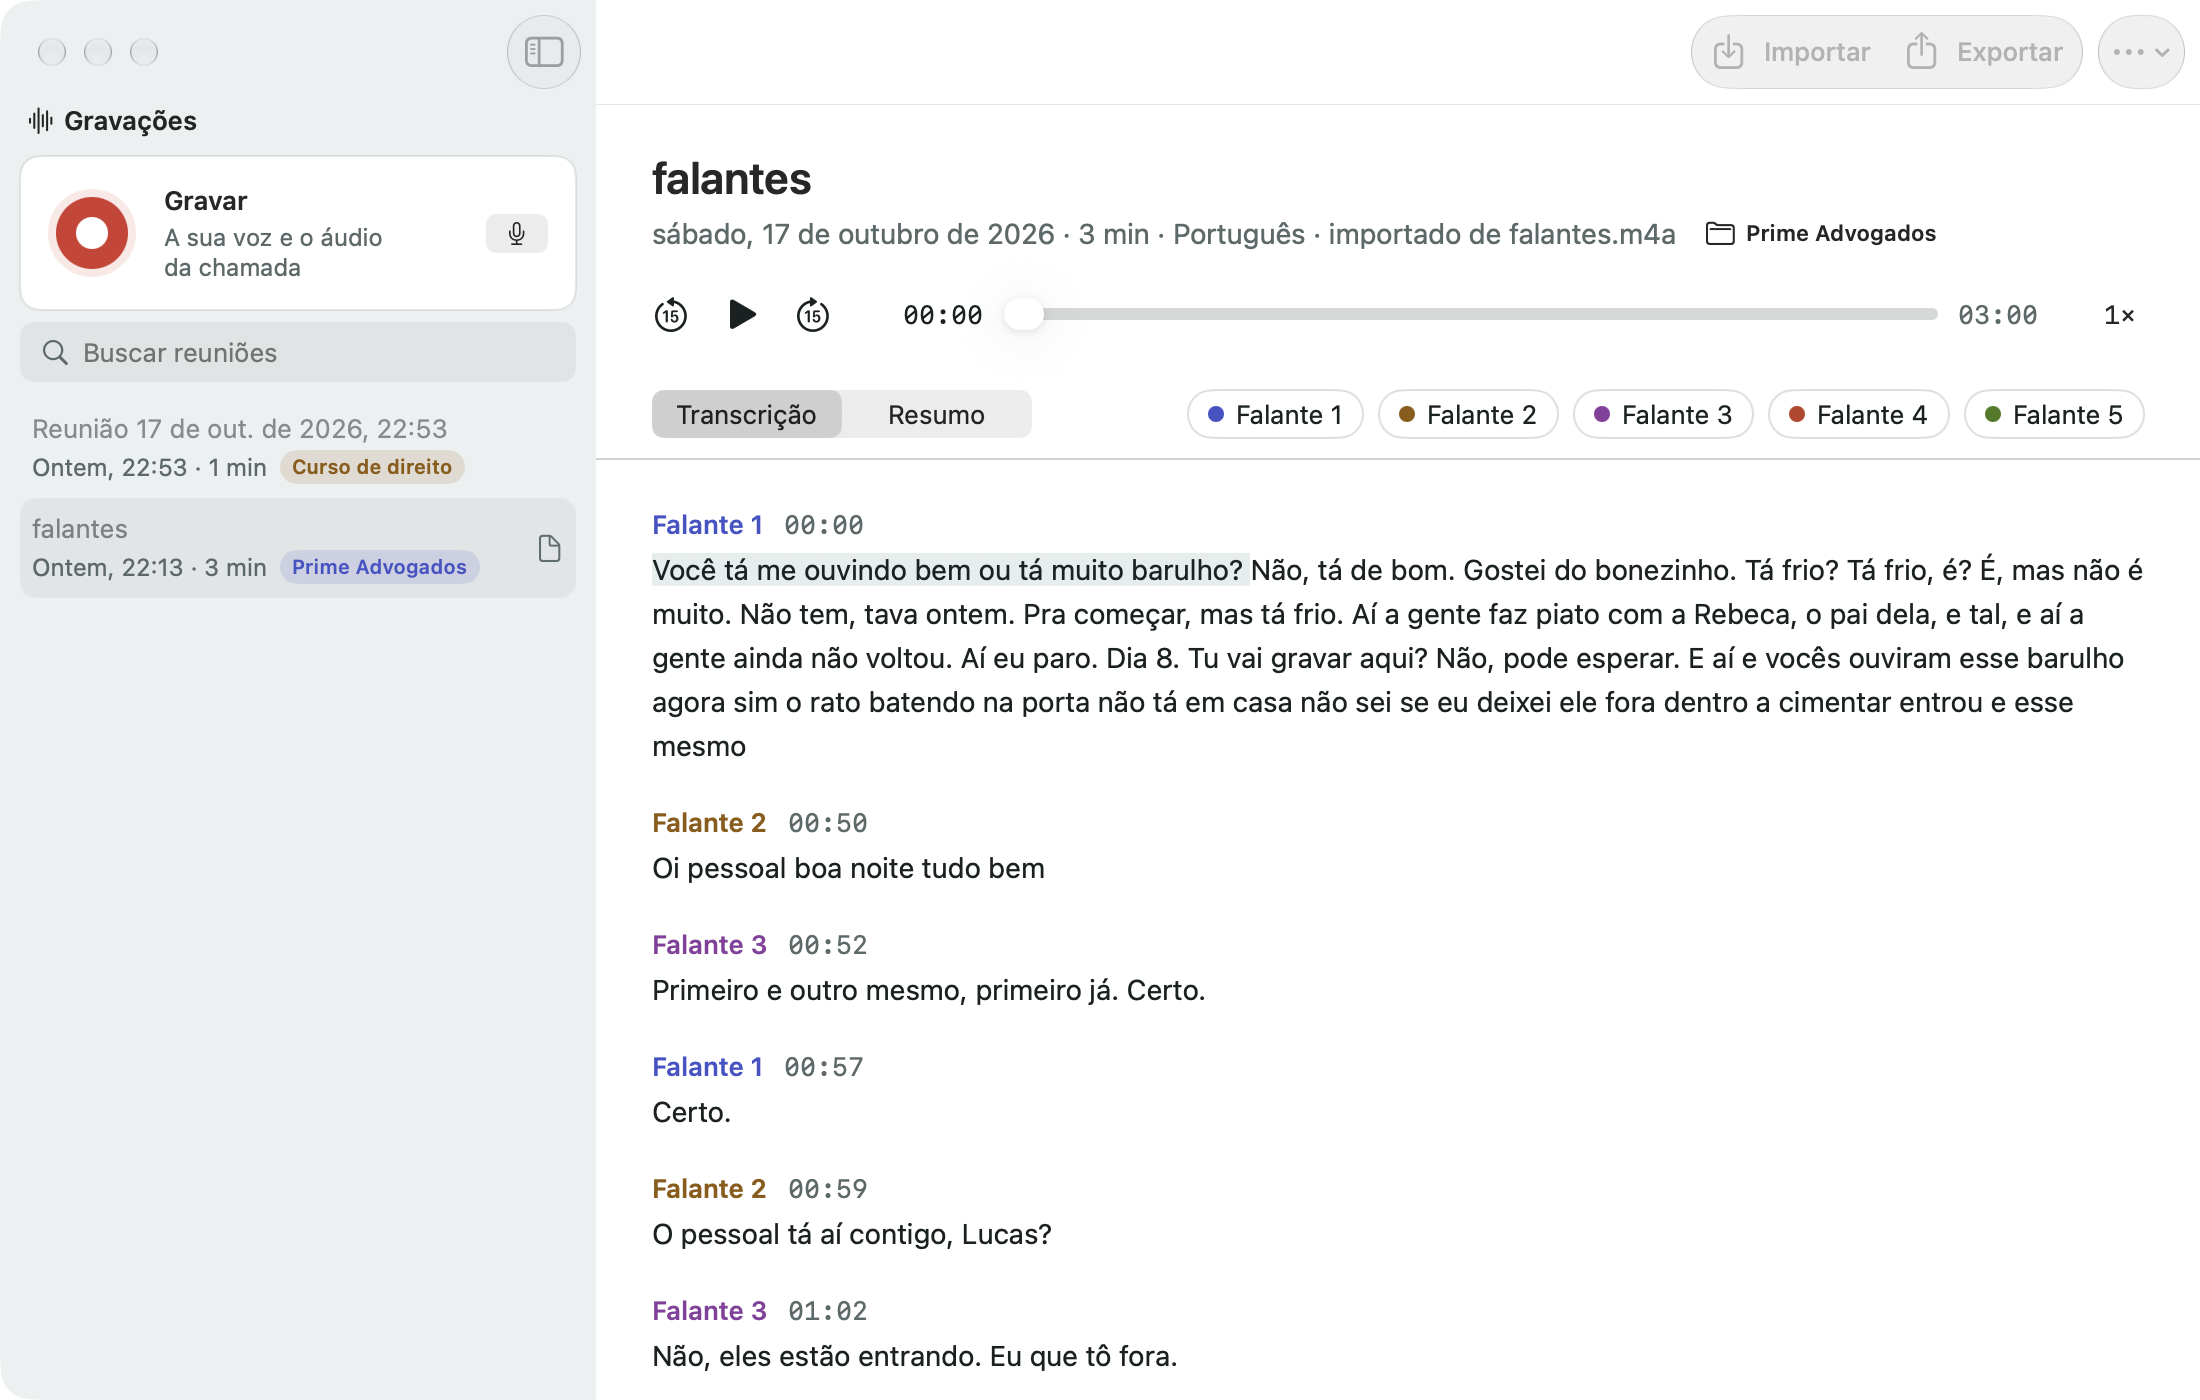
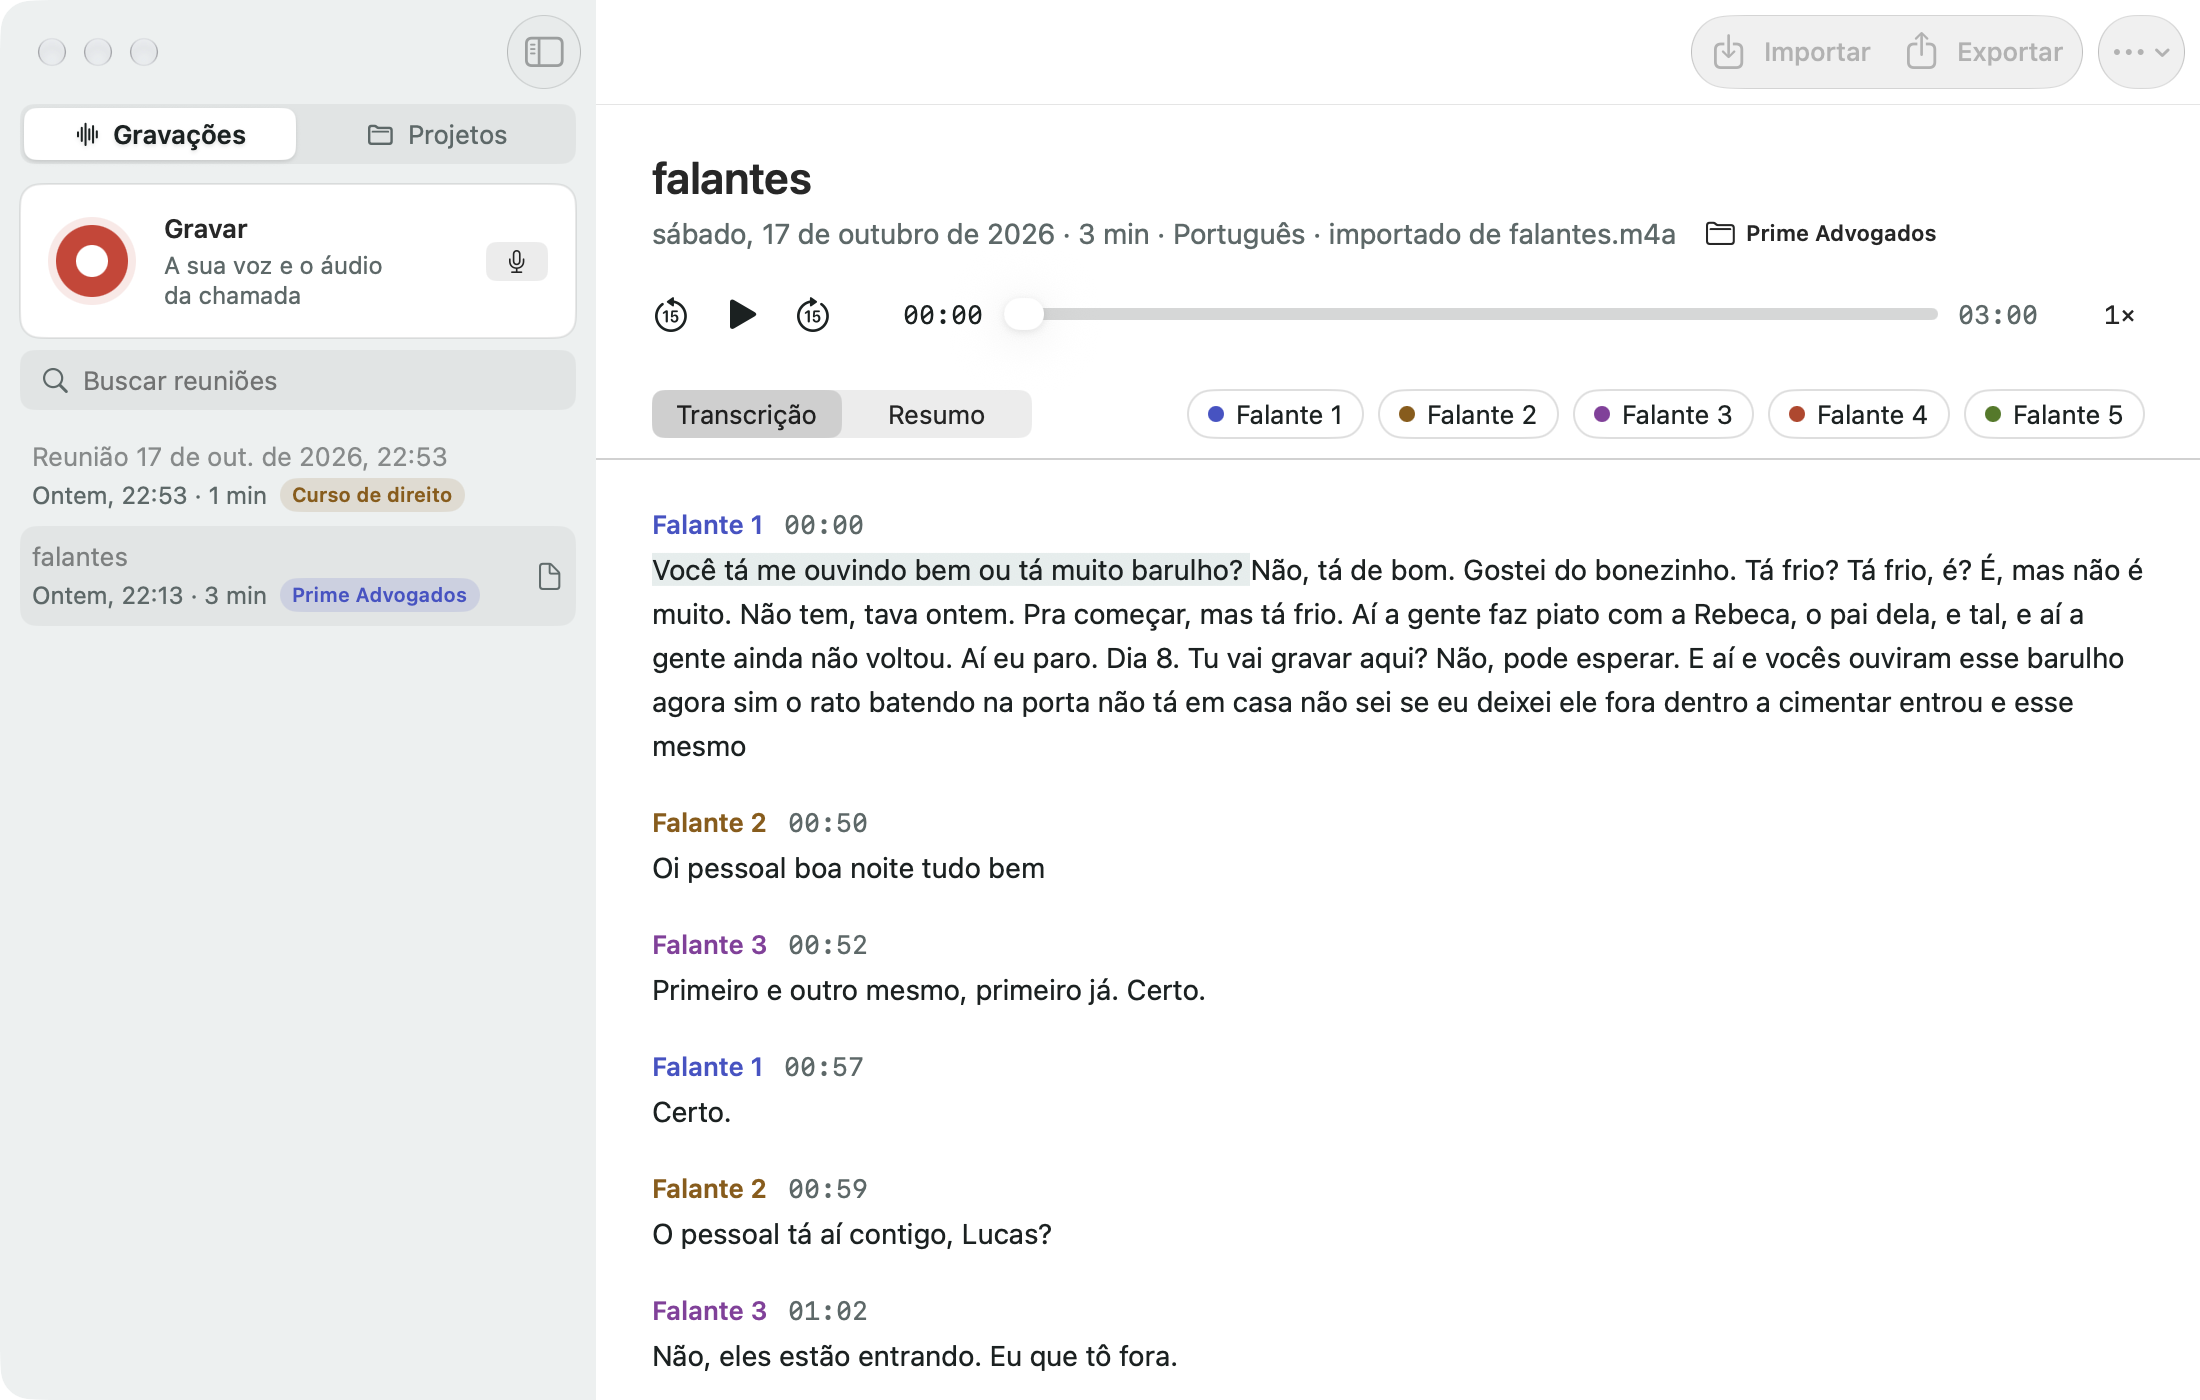
Barra lateral: abas Gravações | Projetos em vez de menu
Claude-Session: https://claude.ai/code/session_01Sz6BGCFANFcyKzwbx4Zd7R

Changed region(s): [[0.0, 0.0614, 0.2782, 0.4607]]

diff --git a/MeetyKit/Sources/MeetyUI/RootView.swift b/MeetyKit/Sources/MeetyUI/RootView.swift
@@ -58,27 +58,27 @@ public struct RootView: View {
         .toolbar(removing: .title)
     }
 
-    /// "Recordings ▾" / "Projects ▾": troca o que a barra lateral mostra.
+    /// Abas "Recordings | Projects" no topo da barra lateral: a ativa ganha o fundo destacado.
     var modeSwitcher: some View {
-        Menu {
+        HStack(spacing: 2) {
             ForEach(AppModel.SidebarMode.allCases) { mode in
-                Button { model.sidebarMode = mode } label: {
-                    Label(mode.title, systemImage: mode.systemIcon)
-                    if mode == model.sidebarMode { Image(systemName: "checkmark") }
+                let active = mode == model.sidebarMode
+                Button { withAnimation(.easeOut(duration: 0.15)) { model.sidebarMode = mode } } label: {
+                    HStack(spacing: 6) {
+                        Image(systemName: mode.systemIcon).font(.system(size: 11, weight: .semibold))
+                        Text(mode.title).font(.system(size: 13, weight: active ? .semibold : .regular))
+                    }
+                    .foregroundStyle(active ? Color.meety.textPrimary : Color.meety.textSecondary)
+                    .frame(maxWidth: .infinity).frame(height: 26)
+                    .background(active ? Color.meety.elevated : .clear, in: RoundedRectangle(cornerRadius: 6, style: .continuous))
+                    .shadow(color: active ? .black.opacity(0.12) : .clear, radius: 1, y: 1)
+                    .contentShape(Rectangle())
                 }
+                .buttonStyle(.plain)
             }
-        } label: {
-            HStack(spacing: 6) {
-                Image(systemName: model.sidebarMode.systemIcon).font(.system(size: 12, weight: .semibold))
-                Text(model.sidebarMode.title).font(MeetyFont.headline)
-                Image(systemName: "chevron.down").font(.system(size: 9, weight: .bold))
-            }
-            .foregroundStyle(Color.meety.textPrimary)
-            .padding(.horizontal, 10).frame(height: 28)
-            .background(Color.meety.fill, in: RoundedRectangle(cornerRadius: MeetyRadius.control, style: .continuous))
         }
-        .menuStyle(.borderlessButton).menuIndicator(.hidden).fixedSize()
-        .frame(maxWidth: .infinity, alignment: .leading)
+        .padding(2)
+        .background(Color.meety.fill, in: RoundedRectangle(cornerRadius: MeetyRadius.field, style: .continuous))
         .padding(.horizontal, 10).padding(.bottom, 8)
     }
 
